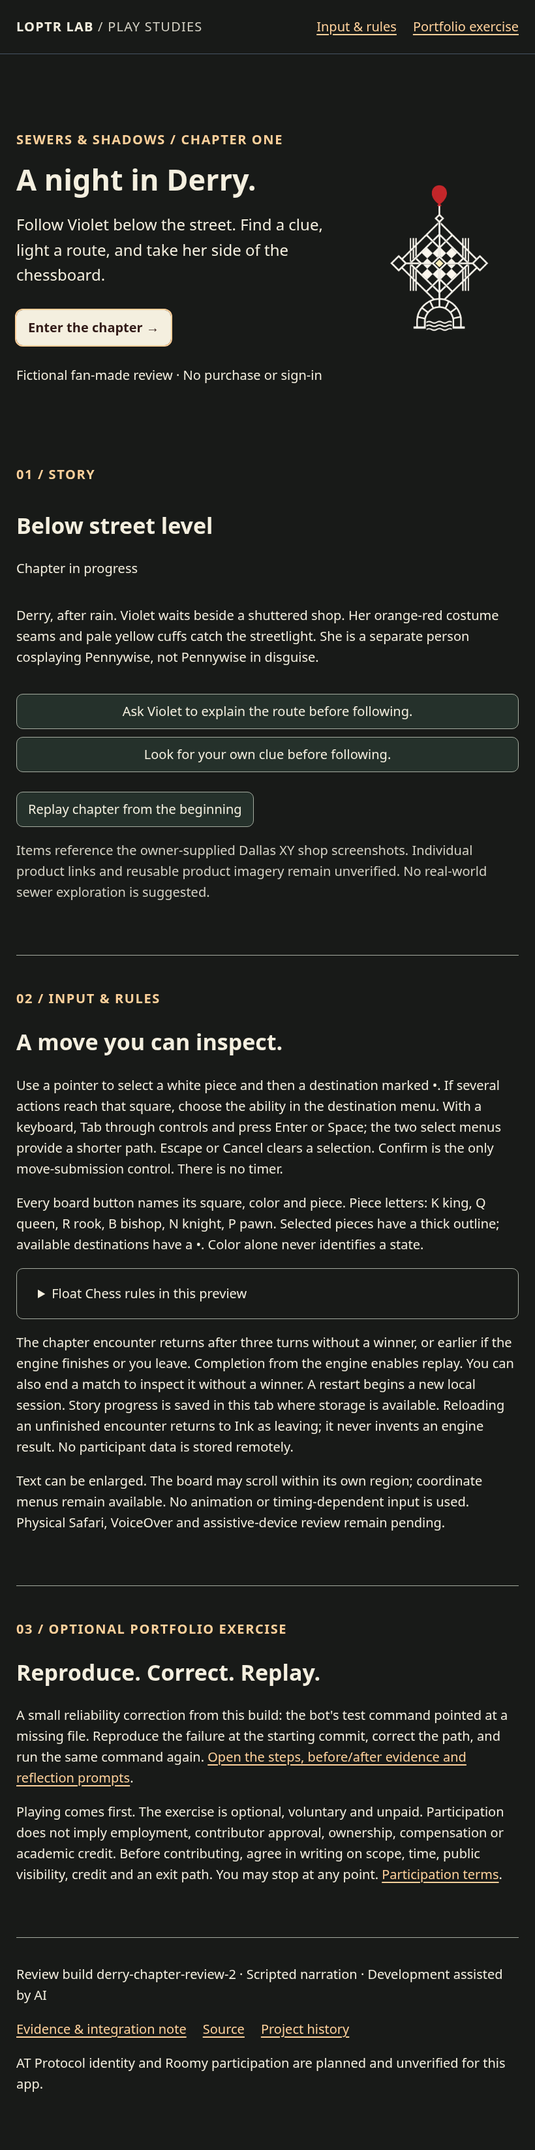
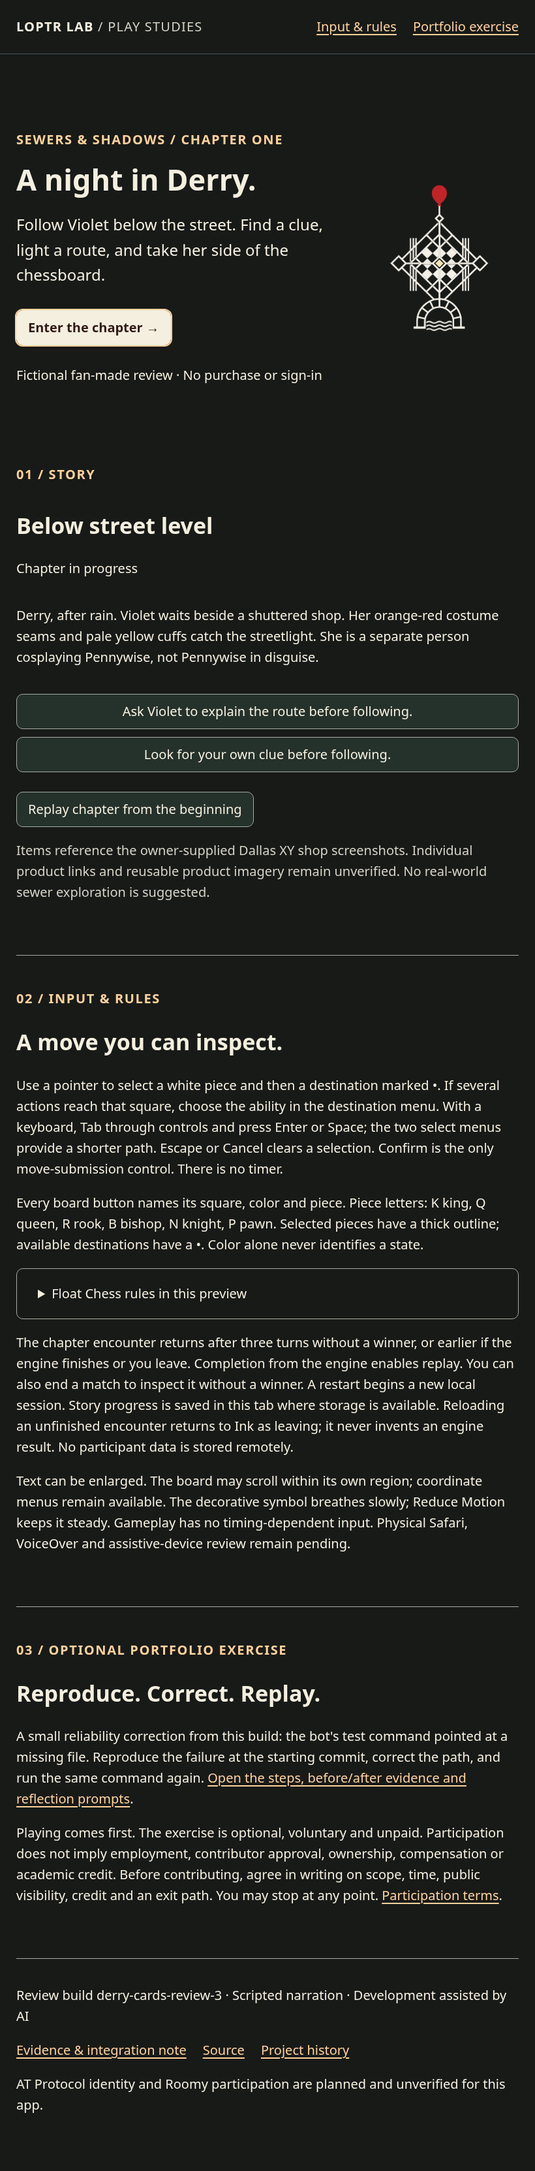
Add optional Float Cards encounter and reduced-motion-aware breathing mark

diff --git a/browser/story.js b/browser/story.js
@@ -1,1 +1,1 @@
-window.DERRY_STORY={"inkVersion":21,"root":[[{"->":"entry"},["done",{"#n":"g-0"}],null],"done",{"entry":[["^Derry, after rain. Violet waits beside a shuttered shop. Her orange-red costume seams and pale yellow cuffs catch the streetlight. She is a separate person cosplaying Pennywise, not Pennywise in disguise.","\n","ev","str","^Ask Violet to explain the route before following.","/str","/ev",{"*":".^.c-0","flg":4},"ev","str","^Look for your own clue before following.","/str","/ev",{"*":".^.c-1","flg":4},{"c-0":["\n","ev","str","^asked","/str","/ev",{"VAR=":"approach","re":true},"^Violet points to a marked stairwell. You agree to follow only as far as the table.","\n",{"->":"street"},null],"c-1":["\n","ev","str","^observed","/str","/ev",{"VAR=":"approach","re":true},"^You notice a sticker beside the stairwell: a small mark repeated below street level.","\n",{"->":"street"},null]}],null],"street":[["^A sticker on the shop window points toward a drain-shaped symbol.","\n","ev","str","^Inspect the sticker.","/str","/ev",{"*":".^.c-0","flg":4},"ev","str","^Follow Violet to the fictional stairwell.","/str","/ev",{"*":".^.c-1","flg":4},{"c-0":["\n","ev",true,"/ev",{"VAR=":"sticker","re":true},"^This bubble-free sticker is adapted as a fictional route marker; its arrow is a clue, not an instruction to enter a real drain. You keep its direction in mind.","\n",{"->":"street"},null],"c-1":["^ ",{"->":"below"},"\n",null]}],null],"below":[["^Violet holds a candle beneath a covered lamp niche. Her hoodie is part of the cosplay; the person wearing it remains Violet.","\n","ev","str","^Inspect the candle.","/str","/ev",{"*":".^.c-0","flg":4},"ev","str","^Inspect the hoodie.","/str","/ev",{"*":".^.c-1","flg":4},"ev","str","^Use the candle to reveal the route.","/str",{"VAR?":"candle"},"/ev",{"*":".^.c-2","flg":5},{"c-0":["\n","ev",true,"/ev",{"VAR=":"candle","re":true},"^A glass jar soy wax candle, based on the Dallas XY shop screenshot. In this story its light can reveal the route; no purchase is needed.","\n",{"->":"below"},null],"c-1":["\n","ev",true,"/ev",{"VAR=":"hoodie","re":true},"^A black Essential Heavyweight Hoodie with a bold front badge, based on the Dallas XY screenshot. Orange-red details and pale yellow cuffs are Violet’s additional costume styling. Violet calls it a costume, not a transformation.","\n",{"->":"below"},null],"c-2":["\n","ev",true,"/ev",{"VAR=":"route","re":true},"^Light catches the same arrow you saw above. The dry passage leads to a table.","\n",{"->":"table"},null]}],null],"table":[["^Pennywise waits opposite Violet. You choose Violet's white moves; Pennywise commits a black move before you confirm. Both resolve together under Float Chess rules.","\n","ev",{"VAR?":"approach"},"str","^asked","/str","==","/ev",[{"->":".^.b","c":true},{"b":["^ Violet repeats the agreed boundary: you can leave at any time.",{"->":".^.^.^.10"},null]}],"nop","\n","ev",{"VAR?":"sticker"},"/ev",[{"->":".^.b","c":true},{"b":["^ The sticker's arrow is repeated on the table edge. Your clue led here.",{"->":".^.^.^.16"},null]}],"nop","\n","ev","str","^Begin the bounded chess encounter.","/str","/ev",{"*":".^.c-0","flg":4},"ev","str","^Leave the table without playing.","/str","/ev",{"*":".^.c-1","flg":4},{"c-0":["\n","ev",true,"/ev",{"VAR=":"encounter","re":true},"#","^encounter:chess","/#","done",null],"c-1":["\n","ev","str","^left","/str","/ev",{"VAR=":"result","re":true},{"->":"return_scene"},null]}],null],"return_scene":[["ev",{"VAR?":"result"},"/ev",["du","ev","str","^lost","/str","==","/ev",{"->":".^.b","c":true},{"b":["pop","\n","^Violet lowers her king. Losing the match does not close the way home.","\n",{"->":".^.^.^.8"},null]}],["du","ev","str","^won","/str","==","/ev",{"->":".^.b","c":true},{"b":["pop","\n","^Violet wins the match. Pennywise clears a space beside the board.","\n",{"->":".^.^.^.8"},null]}],["du","ev","str","^draw","/str","==","/ev",{"->":".^.b","c":true},{"b":["pop","\n","^Neither side wins. Violet records the engine's draw and closes the board.","\n",{"->":".^.^.^.8"},null]}],["du","ev","str","^bounded","/str","==","/ev",{"->":".^.b","c":true},{"b":["pop","\n","^Three simultaneous turns are complete. This chapter's practice encounter ends without declaring a chess winner.","\n",{"->":".^.^.^.8"},null]}],[{"->":".^.b"},{"b":["pop","\n","^Violet leaves the chess encounter. No winner is declared, and the route remains open.","\n",{"->":".^.^.^.8"},null]}],"nop","\n","^At the next table Violet and Pennywise lay out cards. The historical Float Cards engine uses simultaneous hidden choices and one reveal. Here, this is a written scene: the playable card mechanic is pending browser verification.","\n","ev","str","^Watch Violet place a card, then return to the street.","/str","/ev",{"*":".^.c-0","flg":4},"ev","str","^Decline the card scene and return to the street.","/str","/ev",{"*":".^.c-1","flg":4},{"c-0":["^ ",{"->":"ending"},"\n",null],"c-1":["^ ",{"->":"ending"},"\n",null]}],null],"ending":[["ev",true,"/ev",{"VAR=":"ended","re":true},"^You and Violet step into the rain. The chapter is complete. You can inspect the objects again or replay with a different first choice. No shop visit or purchase was required.","\n","ev","str","^Inspect the story objects again.","/str","/ev",{"*":".^.c-0","flg":4},{"c-0":["^ ",{"->":"objects"},"\n",null]}],null],"objects":[["^The objects remain part of the story; shop destinations have not been verified for this review.","\n","ev","str","^Inspect the sticker again.","/str","/ev",{"*":".^.c-0","flg":4},"ev","str","^Inspect the candle again.","/str","/ev",{"*":".^.c-1","flg":4},"ev","str","^Inspect the hoodie again.","/str","/ev",{"*":".^.c-2","flg":4},"ev","str","^Return to the ending.","/str","/ev",{"*":".^.c-3","flg":4},{"c-0":["\n","ev",true,"/ev",{"VAR=":"sticker","re":true},"^A printed arrow: the first clue on the route.","\n",{"->":".^.^.^"},null],"c-1":["\n","ev",true,"/ev",{"VAR=":"candle","re":true},"^A protected light: the route-revealing item.","\n",{"->":".^.^.^"},null],"c-2":["\n","ev",true,"/ev",{"VAR=":"hoodie","re":true},"^Violet's cosplay layer: costume does not erase her identity.","\n",{"->":".^.^.^"},null],"c-3":["^ ",{"->":"ending"},"\n",null]}],null],"global decl":["ev","str","^","/str",{"VAR=":"approach"},false,{"VAR=":"sticker"},false,{"VAR=":"candle"},false,{"VAR=":"hoodie"},false,{"VAR=":"route"},false,{"VAR=":"encounter"},"str","^","/str",{"VAR=":"result"},false,{"VAR=":"ended"},"/ev","end",null]}],"listDefs":{}};
+window.DERRY_STORY={"inkVersion":21,"root":[[{"->":"entry"},["done",{"#n":"g-0"}],null],"done",{"entry":[["^Derry, after rain. Violet waits beside a shuttered shop. Her orange-red costume seams and pale yellow cuffs catch the streetlight. She is a separate person cosplaying Pennywise, not Pennywise in disguise.","\n","ev","str","^Ask Violet to explain the route before following.","/str","/ev",{"*":".^.c-0","flg":4},"ev","str","^Look for your own clue before following.","/str","/ev",{"*":".^.c-1","flg":4},{"c-0":["\n","ev","str","^asked","/str","/ev",{"VAR=":"approach","re":true},"^Violet points to a marked stairwell. You agree to follow only as far as the table.","\n",{"->":"street"},null],"c-1":["\n","ev","str","^observed","/str","/ev",{"VAR=":"approach","re":true},"^You notice a sticker beside the stairwell: a small mark repeated below street level.","\n",{"->":"street"},null]}],null],"street":[["^A sticker on the shop window points toward a drain-shaped symbol.","\n","ev","str","^Inspect the sticker.","/str","/ev",{"*":".^.c-0","flg":4},"ev","str","^Follow Violet to the fictional stairwell.","/str","/ev",{"*":".^.c-1","flg":4},{"c-0":["\n","ev",true,"/ev",{"VAR=":"sticker","re":true},"^This bubble-free sticker is adapted as a fictional route marker; its arrow is a clue, not an instruction to enter a real drain. You keep its direction in mind.","\n",{"->":"street"},null],"c-1":["^ ",{"->":"below"},"\n",null]}],null],"below":[["^Violet holds a candle beneath a covered lamp niche. Her hoodie is part of the cosplay; the person wearing it remains Violet.","\n","ev","str","^Inspect the candle.","/str","/ev",{"*":".^.c-0","flg":4},"ev","str","^Inspect the hoodie.","/str","/ev",{"*":".^.c-1","flg":4},"ev","str","^Use the candle to reveal the route.","/str",{"VAR?":"candle"},"/ev",{"*":".^.c-2","flg":5},{"c-0":["\n","ev",true,"/ev",{"VAR=":"candle","re":true},"^A glass jar soy wax candle, based on the Dallas XY shop screenshot. In this story its light can reveal the route; no purchase is needed.","\n",{"->":"below"},null],"c-1":["\n","ev",true,"/ev",{"VAR=":"hoodie","re":true},"^A black Essential Heavyweight Hoodie with a bold front badge, based on the Dallas XY screenshot. Orange-red details and pale yellow cuffs are Violet’s additional costume styling. Violet calls it a costume, not a transformation.","\n",{"->":"below"},null],"c-2":["\n","ev",true,"/ev",{"VAR=":"route","re":true},"^Light catches the same arrow you saw above. The dry passage leads to a table.","\n",{"->":"table"},null]}],null],"table":[["^Pennywise waits opposite Violet. You choose Violet's white moves; Pennywise commits a black move before you confirm. Both resolve together under Float Chess rules.","\n","ev",{"VAR?":"approach"},"str","^asked","/str","==","/ev",[{"->":".^.b","c":true},{"b":["^ Violet repeats the agreed boundary: you can leave at any time.",{"->":".^.^.^.10"},null]}],"nop","\n","ev",{"VAR?":"sticker"},"/ev",[{"->":".^.b","c":true},{"b":["^ The sticker's arrow is repeated on the table edge. Your clue led here.",{"->":".^.^.^.16"},null]}],"nop","\n","ev","str","^Begin the bounded chess encounter.","/str","/ev",{"*":".^.c-0","flg":4},"ev","str","^Leave the table without playing.","/str","/ev",{"*":".^.c-1","flg":4},{"c-0":["\n","ev",true,"/ev",{"VAR=":"encounter","re":true},"#","^encounter:chess","/#","done",null],"c-1":["\n","ev","str","^left","/str","/ev",{"VAR=":"result","re":true},{"->":"return_scene"},null]}],null],"return_scene":[["ev",{"VAR?":"result"},"/ev",["du","ev","str","^lost","/str","==","/ev",{"->":".^.b","c":true},{"b":["pop","\n","^Violet lowers her king. Losing the match does not close the way home.","\n",{"->":".^.^.^.8"},null]}],["du","ev","str","^won","/str","==","/ev",{"->":".^.b","c":true},{"b":["pop","\n","^Violet wins the match. Pennywise clears a space beside the board.","\n",{"->":".^.^.^.8"},null]}],["du","ev","str","^draw","/str","==","/ev",{"->":".^.b","c":true},{"b":["pop","\n","^Neither side wins. Violet records the engine's draw and closes the board.","\n",{"->":".^.^.^.8"},null]}],["du","ev","str","^bounded","/str","==","/ev",{"->":".^.b","c":true},{"b":["pop","\n","^Three simultaneous turns are complete. This chapter's practice encounter ends without declaring a chess winner.","\n",{"->":".^.^.^.8"},null]}],[{"->":".^.b"},{"b":["pop","\n","^Violet leaves the chess encounter. No winner is declared, and the route remains open.","\n",{"->":".^.^.^.8"},null]}],"nop","\n","^At the next table Violet and Pennywise lay out cards. You can play Float Cards as Violet, or decline. Each side commits one hidden card before both are revealed. Higher rank deals one RP; ties deal none.","\n","ev","str","^Play Float Cards as Violet.","/str","/ev",{"*":".^.c-0","flg":4},"ev","str","^Watch Violet place a card, then return to the street.","/str","/ev",{"*":".^.c-1","flg":4},"ev","str","^Decline the card scene and return to the street.","/str","/ev",{"*":".^.c-2","flg":4},{"c-0":["\n","ev",true,"/ev",{"VAR=":"cards_entered","re":true},"#","^encounter:cards","/#","done",null],"c-1":["^ ",{"->":"ending"},"\n",null],"c-2":["^ ",{"->":"ending"},"\n",null]}],null],"cards_return":[["ev",{"VAR?":"cards_result"},"/ev",["du","ev","str","^won","/str","==","/ev",{"->":".^.b","c":true},{"b":["pop","\n","^Violet wins the card encounter. Pennywise gathers the spent cards.","\n",{"->":".^.^.^.7"},null]}],["du","ev","str","^lost","/str","==","/ev",{"->":".^.b","c":true},{"b":["pop","\n","^Pennywise wins the card encounter. Violet still keeps the way back open.","\n",{"->":".^.^.^.7"},null]}],["du","ev","str","^draw","/str","==","/ev",{"->":".^.b","c":true},{"b":["pop","\n","^The card encounter ends in a draw. Both hands are empty.","\n",{"->":".^.^.^.7"},null]}],[{"->":".^.b"},{"b":["pop","\n","^Violet leaves the card encounter. No winner is declared.","\n",{"->":".^.^.^.7"},null]}],"nop","\n","ev","str","^Return to the street.","/str","/ev",{"*":".^.c-0","flg":4},{"c-0":["^ ",{"->":"ending"},"\n",null]}],null],"ending":[["ev",true,"/ev",{"VAR=":"ended","re":true},"^You and Violet step into the rain. The chapter is complete. You can inspect the objects again or replay with a different first choice. No shop visit or purchase was required.","\n","ev","str","^Inspect the story objects again.","/str","/ev",{"*":".^.c-0","flg":4},{"c-0":["^ ",{"->":"objects"},"\n",null]}],null],"objects":[["^The objects remain part of the story; shop destinations have not been verified for this review.","\n","ev","str","^Inspect the sticker again.","/str","/ev",{"*":".^.c-0","flg":4},"ev","str","^Inspect the candle again.","/str","/ev",{"*":".^.c-1","flg":4},"ev","str","^Inspect the hoodie again.","/str","/ev",{"*":".^.c-2","flg":4},"ev","str","^Return to the ending.","/str","/ev",{"*":".^.c-3","flg":4},{"c-0":["\n","ev",true,"/ev",{"VAR=":"sticker","re":true},"^A printed arrow: the first clue on the route.","\n",{"->":".^.^.^"},null],"c-1":["\n","ev",true,"/ev",{"VAR=":"candle","re":true},"^A protected light: the route-revealing item.","\n",{"->":".^.^.^"},null],"c-2":["\n","ev",true,"/ev",{"VAR=":"hoodie","re":true},"^Violet's cosplay layer: costume does not erase her identity.","\n",{"->":".^.^.^"},null],"c-3":["^ ",{"->":"ending"},"\n",null]}],null],"global decl":["ev","str","^","/str",{"VAR=":"approach"},false,{"VAR=":"sticker"},false,{"VAR=":"candle"},false,{"VAR=":"hoodie"},false,{"VAR=":"route"},false,{"VAR=":"encounter"},"str","^","/str",{"VAR=":"result"},false,{"VAR=":"ended"},false,{"VAR=":"cards_entered"},"str","^","/str",{"VAR=":"cards_result"},"/ev","end",null]}],"listDefs":{}};

diff --git a/browser/index.html b/browser/index.html
@@ -1,11 +1,11 @@
 <!doctype html>
 <html lang="en">
-<head><meta charset="utf-8"><meta name="viewport" content="width=device-width,initial-scale=1"><title>Sewers & Shadows · A night in Derry</title><link rel="stylesheet" href="./style.css"><script defer src="./game.js"></script><script defer src="/vendor/ink-full.js"></script><script defer src="/story.js"></script><script defer src="/chapter.js"></script><script defer src="./app.js"></script></head>
+<head><meta charset="utf-8"><meta name="viewport" content="width=device-width,initial-scale=1"><title>Sewers & Shadows · A night in Derry</title><link rel="stylesheet" href="./style.css?v=derry-cards-3"><script defer src="./game.js?v=derry-cards-3"></script><script defer src="./vendor/ink-full.js?v=derry-cards-3"></script><script defer src="./story.js?v=derry-cards-3"></script><script defer src="./chapter.js?v=derry-cards-3"></script><script defer src="./app.js?v=derry-cards-3"></script><script defer src="./cards.js?v=derry-cards-3"></script></head>
 <body>
 <a class="skip" href="#main">Skip to content</a>
 <header><a class="wordmark" href="#home">LOPTR LAB <span> / PLAY STUDIES</span></a><nav aria-label="Main"><a href="#help">Input & rules</a><a href="#exercise">Portfolio exercise</a></nav></header>
 <main id="main">
-<section id="home" class="hero"><div><p class="eyebrow">SEWERS &amp; SHADOWS / CHAPTER ONE</p><h1>A night in Derry.</h1><p class="intro">Follow Violet below the street. Find a clue, light a route, and take her side of the chessboard.</p><a class="primary button" href="#chapter">Enter the chapter →</a><p>Fictional fan-made review · No purchase or sign-in</p></div><img class="chapter-symbol" src="/symbol.png" alt="Sewers &amp; Shadows symbol study: red balloon, interwoven diamonds and sewer arch"></section>
+<section id="home" class="hero"><div><p class="eyebrow">SEWERS &amp; SHADOWS / CHAPTER ONE</p><h1>A night in Derry.</h1><p class="intro">Follow Violet below the street. Find a clue, light a route, and take her side of the chessboard.</p><a class="primary button" href="#chapter">Enter the chapter →</a><p>Fictional fan-made review · No purchase or sign-in</p></div><img class="chapter-symbol" src="./symbol.png?v=derry-cards-3" alt="Sewers &amp; Shadows symbol study: red balloon, interwoven diamonds and sewer arch"></section>
 <section id="chapter" aria-labelledby="story-heading"><p class="eyebrow">01 / STORY</p><h2 id="story-heading" tabindex="-1">Below street level</h2><p id="chapter-status"></p><div id="story-text"></div><div id="story-choices" class="actions"></div><button id="chapter-replay">Replay chapter from the beginning</button><p class="muted">Items reference the owner-supplied Dallas XY shop screenshots. Individual product links and reusable product imagery remain unverified. No real-world sewer exploration is suggested.</p></section>
 <section hidden id="play" aria-labelledby="play-title" tabindex="-1"><div class="play-header"><h2 id="play-title" tabindex="-1">Violet’s move, at your pace.</h2><a href="#help">Input options & help</a></div><p>Pennywise commits from the same pre-turn board before your choice. Confirm to resolve both moves together. Pennywise uses a heuristic evaluator, not a trained language model.</p>
 <p id="status" role="status" aria-live="polite" aria-atomic="true"></p>
@@ -15,7 +15,8 @@
 <label for="action">Destination & ability</label><select id="action"><option value="">Choose a piece first</option></select>
 <p id="selection">No move selected.</p><div class="actions"><button class="primary" id="confirm" disabled>Confirm & resolve</button><button id="cancel">Cancel selection</button></div><hr><div class="actions"><button id="restart">Restart encounter</button><button id="finish">Leave encounter</button></div><p class="muted">The chapter returns after three resolved turns, an engine result, or leaving. Three turns is a practice boundary, not a chess win.</p></div></div>
 <div class="evidence"><div><p class="eyebrow">RESOLUTION LOG</p><h3>What happened</h3><p id="narration">Scripted narration appears after resolution.</p><ol id="history"><li>No turns yet. Choose a legal move to begin.</li></ol></div><div><h3>Replay & inspect</h3><p>Inspect snapshots without changing the live match. Return to live play to make another move.</p><label for="replay">Board position</label><select id="replay"><option value="live">Live position</option></select><button id="live">Return to live play</button><button id="summary-button">Preview match summary</button><div id="summary-panel" hidden><label for="summary">Shareable summary · local preview</label><textarea id="summary" readonly rows="8"></textarea><p>Copy this text if you choose to share it. Nothing is published or sent to Roomy.</p></div><a id="finding" href="https://github.com/ibloud/sewers-and-shadows-bot/issues/new">Report a finding on GitHub</a><p class="muted">The form asks for build, browser/OS, input method, steps, and expected versus actual behavior. Review what you share.</p></div></div></section>
-<section id="help" tabindex="-1" class="prose"><p class="eyebrow">02 / INPUT & RULES</p><h2>A move you can inspect.</h2><p>Use a pointer to select a white piece and then a destination marked •. If several actions reach that square, choose the ability in the destination menu. With a keyboard, Tab through controls and press Enter or Space; the two select menus provide a shorter path. Escape or Cancel clears a selection. Confirm is the only move-submission control. There is no timer.</p><p>Every board button names its square, color and piece. Piece letters: K king, Q queen, R rook, B bishop, N knight, P pawn. Selected pieces have a thick outline; available destinations have a •. Color alone never identifies a state.</p><details><summary>Float Chess rules in this preview</summary><p>Both moves resolve simultaneously. Two pieces meeting on one destination are removed (Feeding Frenzy); black has the existing engine's reserve-steal bonus. A literal swap changes both pieces' colors (Crossing the Streams). Moving into a vacated square is a Ghost Move. A queen capturing a queen removes both.</p><p>Rooks can leave a Sewer Slide trail; pieces landing on it next turn are slowed. Pawns can use Red Balloon for a two-square push after moving. Those abilities are once per player. Bishops' orthogonal Mirror Shift and knights' extended Float Jump are tracked once per piece in the engine. Menus list only currently valid choices, including castling and promotion.</p><p>This review follows the repository engine, with unresolved design calls for special geometry, en passant, queen interactions and multi-king checkmate. Simultaneous en passant is not offered before the opponent's hidden commitment is available to validation. No ordinary-chess engine is substituted. <a href="https://github.com/ibloud/sewers-and-shadows-bot/blob/main/bot/float-chess-engine.js">Inspect the rules source</a>.</p></details><p>The chapter encounter returns after three turns without a winner, or earlier if the engine finishes or you leave. Completion from the engine enables replay. You can also end a match to inspect it without a winner. A restart begins a new local session. Story progress is saved in this tab where storage is available. Reloading an unfinished encounter returns to Ink as leaving; it never invents an engine result. No participant data is stored remotely.</p><p>Text can be enlarged. The board may scroll within its own region; coordinate menus remain available. No animation or timing-dependent input is used. Physical Safari, VoiceOver and assistive-device review remain pending.</p></section>
+<section hidden id="cards" aria-labelledby="cards-title"><h2 id="cards-title" tabindex="-1">Violet versus Pennywise · Float Cards</h2><p>Six cards each, 10 RP. Pennywise commits before your confirmation. Higher rank wins the round and deals one RP; suits do not break ties. When hands empty, higher RP wins. Nothing is timed.</p><p id="cards-status" role="status" aria-live="polite"></p><label for="card-choice">Violet’s card</label><select id="card-choice"><option value="">Choose a card</option></select><div class="actions"><button id="card-confirm" class="primary" disabled>Confirm and reveal both</button><button id="card-leave">Leave card encounter</button></div><h3>Revealed rounds</h3><ol id="card-log"></ol><button id="card-return" hidden>Return to the story</button><details><summary>Written scene / rules fallback</summary><p>Violet and Pennywise set down their cards, then choose to return to the street. This optional Float Cards encounter uses the historical engine in this repository, not Violet’s separate alternating-turn Discord helper. Leave at any point to continue without a winner.</p></details></section>
+<section id="help" tabindex="-1" class="prose"><p class="eyebrow">02 / INPUT & RULES</p><h2>A move you can inspect.</h2><p>Use a pointer to select a white piece and then a destination marked •. If several actions reach that square, choose the ability in the destination menu. With a keyboard, Tab through controls and press Enter or Space; the two select menus provide a shorter path. Escape or Cancel clears a selection. Confirm is the only move-submission control. There is no timer.</p><p>Every board button names its square, color and piece. Piece letters: K king, Q queen, R rook, B bishop, N knight, P pawn. Selected pieces have a thick outline; available destinations have a •. Color alone never identifies a state.</p><details><summary>Float Chess rules in this preview</summary><p>Both moves resolve simultaneously. Two pieces meeting on one destination are removed (Feeding Frenzy); black has the existing engine's reserve-steal bonus. A literal swap changes both pieces' colors (Crossing the Streams). Moving into a vacated square is a Ghost Move. A queen capturing a queen removes both.</p><p>Rooks can leave a Sewer Slide trail; pieces landing on it next turn are slowed. Pawns can use Red Balloon for a two-square push after moving. Those abilities are once per player. Bishops' orthogonal Mirror Shift and knights' extended Float Jump are tracked once per piece in the engine. Menus list only currently valid choices, including castling and promotion.</p><p>This review follows the repository engine, with unresolved design calls for special geometry, en passant, queen interactions and multi-king checkmate. Simultaneous en passant is not offered before the opponent's hidden commitment is available to validation. No ordinary-chess engine is substituted. <a href="https://github.com/ibloud/sewers-and-shadows-bot/blob/main/bot/float-chess-engine.js">Inspect the rules source</a>.</p></details><p>The chapter encounter returns after three turns without a winner, or earlier if the engine finishes or you leave. Completion from the engine enables replay. You can also end a match to inspect it without a winner. A restart begins a new local session. Story progress is saved in this tab where storage is available. Reloading an unfinished encounter returns to Ink as leaving; it never invents an engine result. No participant data is stored remotely.</p><p>Text can be enlarged. The board may scroll within its own region; coordinate menus remain available. The decorative symbol breathes slowly; Reduce Motion keeps it steady. Gameplay has no timing-dependent input. Physical Safari, VoiceOver and assistive-device review remain pending.</p></section>
 <section id="exercise" tabindex="-1" class="prose"><p class="eyebrow">03 / OPTIONAL PORTFOLIO EXERCISE</p><h2>Reproduce. Correct. Replay.</h2><p>A small reliability correction from this build: the bot's test command pointed at a missing file. Reproduce the failure at the starting commit, correct the path, and run the same command again. <a href="https://github.com/ibloud/sewers-and-shadows-bot/blob/codex/browser-training-review/docs/CASE_STUDY.md">Open the steps, before/after evidence and reflection prompts</a>.</p><p>Playing comes first. The exercise is optional, voluntary and unpaid. Participation does not imply employment, contributor approval, ownership, compensation or academic credit. Before contributing, agree in writing on scope, time, public visibility, credit and an exit path. You may stop at any point. <a href="https://github.com/ibloud/ibloud.github.io/blob/main/MISSION.md">Participation terms</a>.</p></section>
 <footer><p>Review build <span id="build"></span> · Scripted narration · Development assisted by AI</p><nav aria-label="Project evidence"><a href="https://github.com/ibloud/sewers-and-shadows-bot/blob/codex/browser-training-review/docs/REVIEW.md">Evidence & integration note</a><a href="https://github.com/ibloud/sewers-and-shadows-bot">Source</a><a href="https://github.com/ibloud/sewers-and-shadows-bot/commits/main/">Project history</a></nav><p>AT Protocol identity and Roomy participation are planned and unverified for this app.</p></footer>
 </main></body></html>

diff --git a/browser/chapter.js b/browser/chapter.js
@@ -4,20 +4,26 @@
   let story=new inkjs.Story(window.DERRY_STORY), cachedText=[];
   const save=()=>{try{sessionStorage.setItem('derry-story',JSON.stringify({ink:story.state.ToJson(),text:cachedText}));}catch{}};
   // Restore story choices, never infer an engine result from saved presentation.
-  try { const saved=sessionStorage.getItem('derry-story');if(saved){const snapshot=JSON.parse(saved);story.state.LoadJson(snapshot.ink);cachedText=snapshot.text||[];if(story.variablesState.$('encounter')&&!story.variablesState.$('result')){story.variablesState.$('result','left');story.ChoosePathString('return_scene');}}} catch {story=new inkjs.Story(window.DERRY_STORY);}
+  try { const saved=sessionStorage.getItem('derry-story');if(saved){const snapshot=JSON.parse(saved);story.state.LoadJson(snapshot.ink);cachedText=snapshot.text||[];if(story.variablesState.$('cards_entered')&&!story.variablesState.$('cards_result')){story.variablesState.$('cards_result','left');story.ChoosePathString('cards_return');}else if(story.variablesState.$('encounter')&&!story.variablesState.$('result')){story.variablesState.$('result','left');story.ChoosePathString('return_scene');}}} catch {story=new inkjs.Story(window.DERRY_STORY);}
   function render(){
     $('story-text').replaceChildren();$('story-choices').replaceChildren();
-    let launch=false;const paragraphs=[];
-    while(story.canContinue){const text=story.Continue().trim();if(text){const p=document.createElement('p');p.textContent=text;paragraphs.push(text);$('story-text').append(p);}if(story.currentTags.includes('encounter:chess'))launch=true;}
+    let launch=false, launchCards=false;const paragraphs=[];
+    while(story.canContinue){const text=story.Continue().trim();if(text){const p=document.createElement('p');p.textContent=text;paragraphs.push(text);$('story-text').append(p);}if(story.currentTags.includes('encounter:chess'))launch=true;if(story.currentTags.includes('encounter:cards'))launchCards=true;}
     if(!paragraphs.length)for(const text of cachedText){const p=document.createElement('p');p.textContent=text;$('story-text').append(p);}
     else cachedText=paragraphs;
     story.currentChoices.forEach(choice=>{const b=document.createElement('button');b.textContent=choice.text;b.addEventListener('click',()=>{story.ChooseChoiceIndex(choice.index);render();});$('story-choices').append(b);});
     $('chapter-status').textContent=story.variablesState.$('ended')?'Chapter complete':'Chapter in progress';
     save();
-    if(launch){$('play').hidden=false;document.dispatchEvent(new Event('chapter-chess'));$('play-title').focus();}
+    $('cards').hidden=!launchCards;
+    if(launchCards){$('play').hidden=true;document.dispatchEvent(new Event('chapter-cards'));$('cards-title').focus();}
+    else if(launch){$('play').hidden=false;document.dispatchEvent(new Event('chapter-chess'));$('play-title').focus();}
     else {$('play').hidden=true;$('story-heading').focus();}
   }
   window.ChapterBridge={
+    completeCards(result){
+      if(!story.variablesState.$('cards_entered')||story.variablesState.$('cards_result')||!['won','lost','draw','left'].includes(result))return false;
+      story.variablesState.$('cards_result',result);story.ChoosePathString('cards_return');render();return true;
+    },
     complete(result){
       if(!story.variablesState.$('encounter')||story.variablesState.$('result'))return false;
       if(!['won','lost','draw','bounded','left'].includes(result))return false;

diff --git a/browser/cards.js b/browser/cards.js
@@ -1,0 +1,20 @@
+'use strict';
+(()=>{
+ const $=id=>document.getElementById(id);let match=null,selected='',busy=false;
+ function render(){
+  $('card-choice').replaceChildren();const placeholder=document.createElement('option');placeholder.value='';placeholder.textContent='Choose a card';$('card-choice').append(placeholder);
+  for(const card of match.game.handFor('w')){const o=document.createElement('option');o.value=card;o.textContent=card.replace('♠',' of spades').replace('♥',' of hearts').replace('♦',' of diamonds').replace('♣',' of clubs');$('card-choice').append(o);}
+  $('card-choice').value=selected;$('card-choice').disabled=busy||match.closed;$('card-confirm').disabled=busy||match.closed||!selected;$('card-leave').disabled=busy||match.closed;
+  $('card-return').hidden=!match.closed;
+  $('cards-status').textContent=`Violet: ${match.game.rp.w} RP. Pennywise: ${match.game.rp.b} RP. `+(match.closed?`Finished: ${match.game.status==='won-w'?'Violet wins':match.game.status==='won-b'?'Pennywise wins':'draw'}. Return to the story.`:`Round ${match.round}. Pennywise’s card is committed and hidden.`);
+  $('card-log').replaceChildren();for(const r of match.log){const li=document.createElement('li');li.textContent=`Round ${r.round}: Violet ${r.a}; Pennywise ${r.b}. ${r.winner==='w'?'Violet wins the round':r.winner==='b'?'Pennywise wins the round':'Tie — no damage'}. RP after reveal: Violet ${r.rp.w}, Pennywise ${r.rp.b}.`;$('card-log').append(li);}
+ }
+ document.addEventListener('chapter-cards',()=>{match=new window.FloatCardsPreview.CardsMatch();selected='';busy=false;render();});
+ $('card-choice').addEventListener('change',()=>{selected=match.game.handFor('w').includes($('card-choice').value)?$('card-choice').value:'';$('card-confirm').disabled=!selected||busy||match.closed;});
+ $('card-confirm').addEventListener('click',()=>{
+  if(busy||!selected||match.closed)return;const card=selected,round=match.round;busy=true;render();
+  requestAnimationFrame(()=>{const result=match.play(card,round);selected='';busy=false;render();if(!result.ok)$('cards-status').textContent=result.reason;(match.closed?$('card-return'):$('card-choice')).focus();});
+ });
+ $('card-leave').addEventListener('click',()=>{if(busy||!match.leave())return;window.ChapterBridge.completeCards('left');});
+ $('card-return').addEventListener('click',()=>{if(!match.closed)return;const status=match.game.status;window.ChapterBridge.completeCards(status==='won-w'?'won':status==='won-b'?'lost':'draw');});
+})();

diff --git a/scripts/build.js b/scripts/build.js
@@ -2,18 +2,18 @@
 const fs = require('node:fs');
 const path = require('node:path');
 const root = path.resolve(__dirname, '..');
-const files = ['bot/float-chess-engine.js', 'bot/src/pennywiseAI.js', 'browser/session.js'];
+const files = ['bot/float-chess-engine.js', 'bot/src/pennywiseAI.js', 'browser/session.js', 'bot/float-cards-engine.js', 'bot/src/pennywiseCardsAI.js', 'browser/cards-session.js'];
 function bundle() {
   const definitions = files.map(file => `${JSON.stringify(file)}: function(require,module,exports){\n${fs.readFileSync(path.join(root, file), 'utf8')}\n}`).join(',\n');
   return `'use strict';\n(() => {\nconst factories={${definitions}}, cache={};
 function load(id){if(cache[id])return cache[id].exports; const module={exports:{}};cache[id]=module;
 factories[id](p=>{const parts=id.split('/');parts.pop();for(const part of p.split('/')){if(part==='..')parts.pop();else if(part!=='.')parts.push(part);}return load(parts.join('/'));},module,module.exports);return module.exports;}
-window.FloatPreview=load('browser/session.js');\n})();\n`;
+window.FloatPreview=load('browser/session.js');window.FloatCardsPreview=load('browser/cards-session.js');\n})();\n`;
 }
 if (require.main === module) {
   const out = path.join(root, 'dist');
   fs.mkdirSync(out, { recursive: true });
-  for (const name of ['index.html', 'app.js', 'style.css', 'chapter.js', 'story.js', 'symbol.png']) fs.copyFileSync(path.join(root, 'browser', name), path.join(out, name));
+  for (const name of ['index.html', 'app.js', 'style.css', 'chapter.js', 'story.js', 'symbol.png', 'cards.js']) fs.copyFileSync(path.join(root, 'browser', name), path.join(out, name));
   fs.mkdirSync(path.join(out,'vendor'),{recursive:true});
   fs.copyFileSync(path.join(root,'browser/vendor/ink-full.js'),path.join(out,'vendor/ink-full.js'));
   fs.writeFileSync(path.join(out, 'game.js'), bundle());

diff --git a/browser/style.css b/browser/style.css
@@ -11,3 +11,9 @@
 /* Chapter presentation: shared palette, no remote assets or parallel game state. */
 .hero{max-width:none;display:grid;grid-template-columns:minmax(0,2fr) minmax(8rem,1fr);gap:2rem;align-items:center}.hero>div{min-width:0}.chapter-symbol{width:100%;max-width:15rem;justify-self:center;fill:none;stroke:#f4efdf;stroke-width:5}.chapter-symbol ellipse{stroke:#ef6464;fill:#a51f2c}#chapter{max-width:70ch;margin-bottom:3rem}#chapter p{margin-bottom:2em}#story-choices{display:grid;margin-bottom:1.5rem}.view-controls{display:flex;gap:.5rem;flex-wrap:wrap;margin-bottom:1rem}.view-controls [aria-pressed=true]{border:3px double var(--text)}.board-scroll:has(.fixed-3d){perspective:1100px;padding:3rem 1rem}.board.fixed-3d{transform:rotateX(22deg);transform-origin:center;transform-style:preserve-3d}.fixed-3d .square{box-shadow:0 5px 0 #121b15}.fixed-3d .square.selected{outline:4px solid #ffdc85}.fixed-3d .square.available{border:3px dashed #08745c}.square{background:#283c32;color:#f4efdf}.square.light{background:#e7e1cd;color:#181a18}
 @media(max-width:600px){.hero{grid-template-columns:minmax(0,1fr)}.chapter-symbol{max-width:8rem}.board-scroll:has(.fixed-3d){padding:2rem .25rem}}
+
+/* Studio breathing signature: decorative mark only; no gameplay timing. */
+.chapter-symbol{animation:symbol-breathe 7s ease-in-out infinite}
+@keyframes symbol-breathe{0%,100%{opacity:1}50%{opacity:.65}}
+@media(prefers-reduced-motion:reduce){.chapter-symbol{animation:none;opacity:1}}
+#cards{max-width:70ch;margin:2rem 0}#cards select{margin-bottom:1rem}#card-log li{margin:1rem 0}

diff --git a/scripts/preview.js b/scripts/preview.js
@@ -4,10 +4,12 @@ const fs = require('node:fs');
 const path = require('node:path');
 const { bundle } = require('./build.js');
 const assets = { '/': ['index.html', 'text/html'], '/index.html': ['index.html', 'text/html'], '/app.js': ['app.js', 'text/javascript'], '/style.css': ['style.css', 'text/css'] };
-for(const f of ['chapter.js','story.js','vendor/ink-full.js']) assets['/'+f]=[f,'text/javascript'];
+for(const f of ['chapter.js','story.js','cards.js','vendor/ink-full.js']) assets['/'+f]=[f,'text/javascript'];
 assets['/symbol.png']=['symbol.png','image/png'];
 const server = http.createServer((req, res) => {
-  const url = new URL(req.url, 'http://localhost').pathname;
+  let url = new URL(req.url, 'http://localhost').pathname;
+  const base=process.env.PREVIEW_BASE_PATH||'';
+  if(base){if(!url.startsWith(base+'/')){res.writeHead(404);return res.end('Not found');}url=url.slice(base.length);}
   res.setHeader('Content-Security-Policy', "default-src 'self'; connect-src 'none'; img-src 'self' data:; style-src 'self'; script-src 'self'; base-uri 'none'; form-action 'none'; frame-ancestors 'none'");
   res.setHeader('X-Content-Type-Options', 'nosniff');
   res.setHeader('Cache-Control', 'no-store');

diff --git a/browser/cards-session.js b/browser/cards-session.js
@@ -1,0 +1,17 @@
+'use strict';
+const {FloatCardsGame}=require('../bot/float-cards-engine.js');
+const {chooseMove}=require('../bot/src/pennywiseCardsAI.js');
+class CardsMatch {
+ constructor(){this.game=new FloatCardsGame();this.round=1;this.log=[];this.closed=false;this.commit();}
+ commit(){if(this.game.status==='active'){const card=chooseMove(this.game,'b');const result=this.game.submitMove('b',card);if(!result.accepted)throw Error('Opponent has no legal card');}}
+ play(card,round){
+  if(this.closed||this.game.status!=='active'||round!==this.round)return {ok:false,reason:'This round is already closed.'};
+  if(!this.game.handFor('w').includes(card))return {ok:false,reason:'Choose a card from Violet’s current hand.'};
+  const result=this.game.submitMove('w',card);if(!result.accepted)return {ok:false,reason:result.reason};
+  this.log.push({round:this.round,...this.game.slab,winner:this.game.lastEvents[0].winner,rp:{...this.game.rp}});this.round++;
+  this.closed=this.game.status!=='active';if(!this.closed)this.commit();
+  return {ok:true,status:this.game.status};
+ }
+ leave(){if(this.closed)return false;this.closed=true;return true;}
+}
+module.exports={CardsMatch};

diff --git a/browser/session.js b/browser/session.js
@@ -1,7 +1,7 @@
 'use strict';
 const { FloatChessGame, toAlg, toRC } = require('../bot/float-chess-engine.js');
 const { enumerateLegalMoves, scoreMove } = require('../bot/src/pennywiseAI.js');
-const BUILD = 'derry-chapter-review-2';
+const BUILD = 'derry-cards-review-3';
 const SPECIALS = ['', 'mirrorShift', 'floatJump', 'sewerSlide', 'redBalloon', 'castleK', 'castleQ'];
 const PROMOTIONS = ['Q', 'R', 'B', 'N'];
 const moveKey = m => [m.from, m.to, m.special || '', m.promotion || ''].join(':');

diff --git a/docs/CHAPTER-REVIEW.md b/docs/CHAPTER-REVIEW.md
@@ -34,3 +34,19 @@ New `browser/symbol.png` is an AI-generated review proposal: balloon, interwoven
 `npm run build` compiles Ink and builds static assets; `npm test` runs original 16 engine assertions, 7 session tests and 6 Ink tests. Ink tests cover won/lost/draw/bounded/left returns, inventory/choice flags, ending and reinspection, plus source/compiled parity. Outcome injections validate story branches; they do not claim an independently played full win/loss.
 
 `test/chapter-browser.cjs` checks native pointer story choices, item use, a real engine move, 3D/2D board preservation, leaving, duplicate-result rejection, three-turn return, ending/reinspection, replay, reload recovery, keyboard Enter/focus restoration and 320/390/820/1440 reflow. Captures are in `docs/captures/`. Existing browser smoke is updated to enter the chapter before its game checks. Physical iPad Safari, VoiceOver, assistive hardware, brand approval, exact product links and public rights clearance remain separate pending acceptance. No Roomy posting, AT Protocol identity action, real feedback submission, Railway activation, staging or production publication.
+
+## Optional Float Cards amendment — 4 November 2026
+
+This follow-up supersedes the written-only card-mechanic limitation above. After Float Chess returns to Ink (three turns, actual engine outcome, or leaving), choose **Play Float Cards as Violet**. The existing **Decline** choice and written-scene fallback remain. Complete six rounds, choose **Return to the story**, then **Return to the street**; leaving returns without a winner.
+
+Rules authority is `bot/float-cards-engine.js` (unchanged) with `bot/src/pennywiseCardsAI.js` (unchanged). Higher rank deals one RP; ties deal none; depleted RP or exhausted hands finish the match. Six-card hands make the normal encounter six rounds. Pennywise's legal card is committed through the engine before Violet's selection/confirmation; the browser reveals the engine slab/event once and then commits the next round. `browser/cards-session.js` rejects stale round tokens, closed encounters and cards not in Violet's hand; it does not duplicate rank comparison or damage rules. No historical Float Cards test suite was present; new regression tests establish these paths.
+
+Cross-check: `ibloud/violets-revenge/violet_bot.py` at `a2398a910946a7945f849e44b76358faae3a4036`, lines 120–150 and 204–220, is a different helper: alternating `TURN_VIOLET`/`TURN_OPPONENT`, prefers spades/diamonds, removes a chosen card and subtracts one opponent RP without a rank comparison. Float Cards uses rank-first strings (`A♠`), not a merged interpretation of that helper. These systems are not interchangeable. The optional encounter is explicitly labeled **Float Cards**; no claim that it implements Violet's separate card canon is made. The written fallback remains available for rules review; no rules engine was edited to reconcile them.
+
+Ink now owns `cards_entered` and `cards_result`. The card engine alone owns hands, pending plays, RP and result. The bridge accepts a card result only while entered with an empty result. Duplicate confirmation cannot reuse a round token; a completed result cannot be applied twice. Refresh during a card encounter recovers through Ink's `left` branch, following the existing interruption policy; the browser does not reconstruct a match or invent a win. A new chapter resets Ink and a new encounter creates a new engine.
+
+All HTML asset URLs are relative and share `?v=derry-cards-3`, including Ink runtime/data, game bundle, scripts, stylesheet and symbol. A local server with `PREVIEW_BASE_PATH=/sewers-and-shadows-bot` verified the exact project-path request shape; this does not claim the new build is publicly deployed. The symbol uses the studio's seven-second ease-in-out opacity breathing effect; Reduce Motion disables it. The PNG is a single flattened mark, so the whole decorative mark breathes rather than an independently animated balloon layer.
+
+Validation: 16 original chess assertions, seven session tests, ten Ink tests, three new card tests; corrected historical bot test command, build, syntax and diff checks pass. Browser checks cover a real chess move → leave → cards → six engine-resolved rounds → Ink → street; plus decline, invalid selection, duplicate confirmation, duplicate Ink return, leave, refresh and chapter replay. Checked pointer/native keyboard, focus restoration, four widths (320/390/820/1440), normal and 200% text/spacing in the existing browser regression, and breathing/reduced motion. Card result branches won/lost/draw/left are additionally exercised with synthetic Ink inputs. New captures: `docs/captures/cards-820.png`, `cards-ending-820.png`. Physical iPad Safari and VoiceOver remain pending. Shop URLs and optional Roomy/AT Protocol work remain unchanged.
+
+No push to `gh-pages` or main, Pages configuration change, merge or production deployment is part of this amendment. Any Vercel build must remain preview-only; no manual deployment was requested by this amendment.
